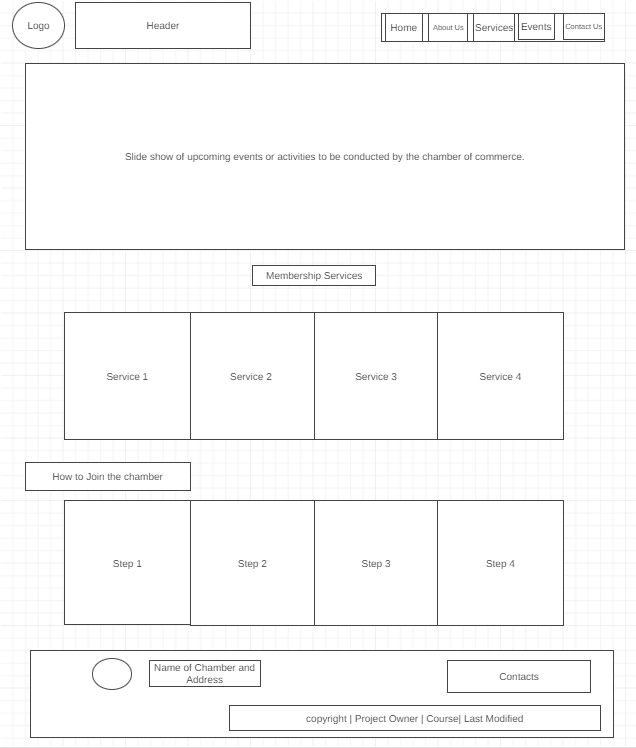
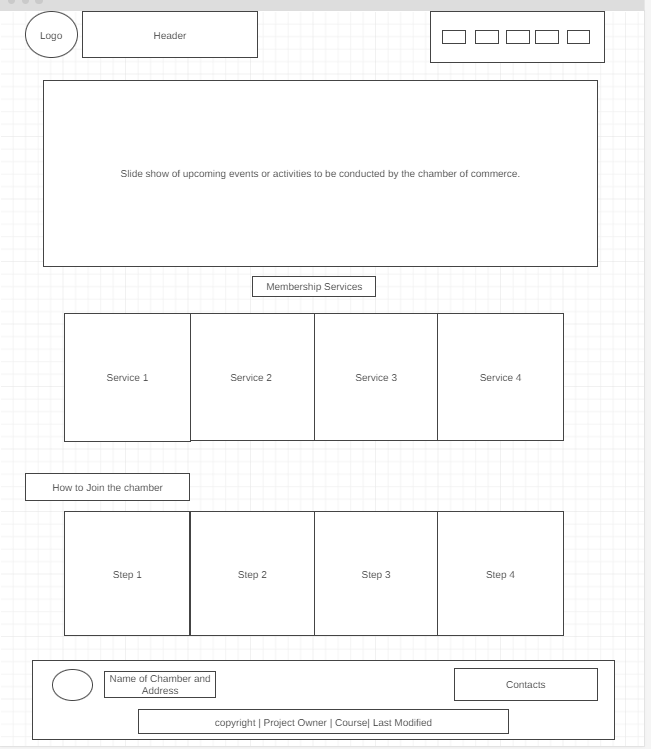
created the css for site-plan

diff --git a/lesson03/styles/site-plan.css b/lesson03/styles/site-plan.css
@@ -1,0 +1,57 @@
+@import url('https://fonts.googleapis.com/css2?family=Roboto:wght@500&family=RocknRoll+One&display=swap');
+
+body {
+    background-color: antiquewhite;
+    padding: 3em;
+    font-size: 14px;
+    text-align: center;
+    display: grid;
+    height: 100vh;
+    grid-template-columns: 1fr auto;
+    grid-template-rows: auto auto 1fr auto;
+
+}
+
+h1 {
+    color: black;
+    margin: 0;
+    padding-top: 1rem;
+    padding-bottom: 1rem;
+    display: grid;
+    grid-column: 1/3;
+}
+
+h2 {
+    background-blend-mode: normal;
+    text-decoration-line: underline;
+    justify-content: center;
+    display: grid;
+    grid-row: auto;
+    grid-column: 1/4;
+}
+
+footer {
+    display: grid;
+    padding: 1.2em;
+    grid-column: 1/4;
+    background-color: aqua;
+    font-style: normal;
+    font-family: Georgia, 'Times New Roman', Times, serif;
+}
+
+footer p {
+    font-size: 1.2em;
+
+}
+
+footer p a:hover {
+    text-decoration: none;
+}
+
+h3 {
+    font-family: Cambria, Cochin, Georgia, Times, 'Times New Roman', serif;
+    margin: 0;
+    background-color: hsl(188, 85%, 62%);
+    text-align: center;
+    padding: 10px;
+}

diff --git a/lesson03/chamber-site-plan.html b/lesson03/chamber-site-plan.html
@@ -50,8 +50,8 @@
     <section class="frame">
       <h3>Wireframe</h3>
       <ul class="no-bullet">
-        <li>Mobile View<a href="lesson01/holygrail.html">Holy Layout | JS Pen</a></li>
-        <li>Larger View<a href="lesson02/media-query.html">Media Query</a> | <a
+        <li>Mobile View<a href="lesson03/images/mobile-view.png">Mobile View</a></li>
+        <li>Larger View<a href="lesson03/images/larger-view.png">Larger View</a> | <a
             href="lesson02/design-principles.html">Design Principles
             Document</a></li>
       </ul>
@@ -59,8 +59,11 @@
     </section>
   </main>
   <footer>
-
+    <p>WDD230&copy; 2024 Gina S. Ong - Philippines</p>
+    <p id="lastModified">Last Modification:</p>
   </footer>
+
+  <script src="scripts/getdates.js"></script>
 
 </body>
 

diff --git a/styles/base.css b/styles/base.css
@@ -1,4 +1,4 @@
-@import url("https://fonts.googleapis.com/css?family=Tangerine");
+@import url('https://fonts.googleapis.com/css2?family=Roboto:wght@500&family=RocknRoll+One&display=swap');
 
 * {
     box-sizing: border-box;
